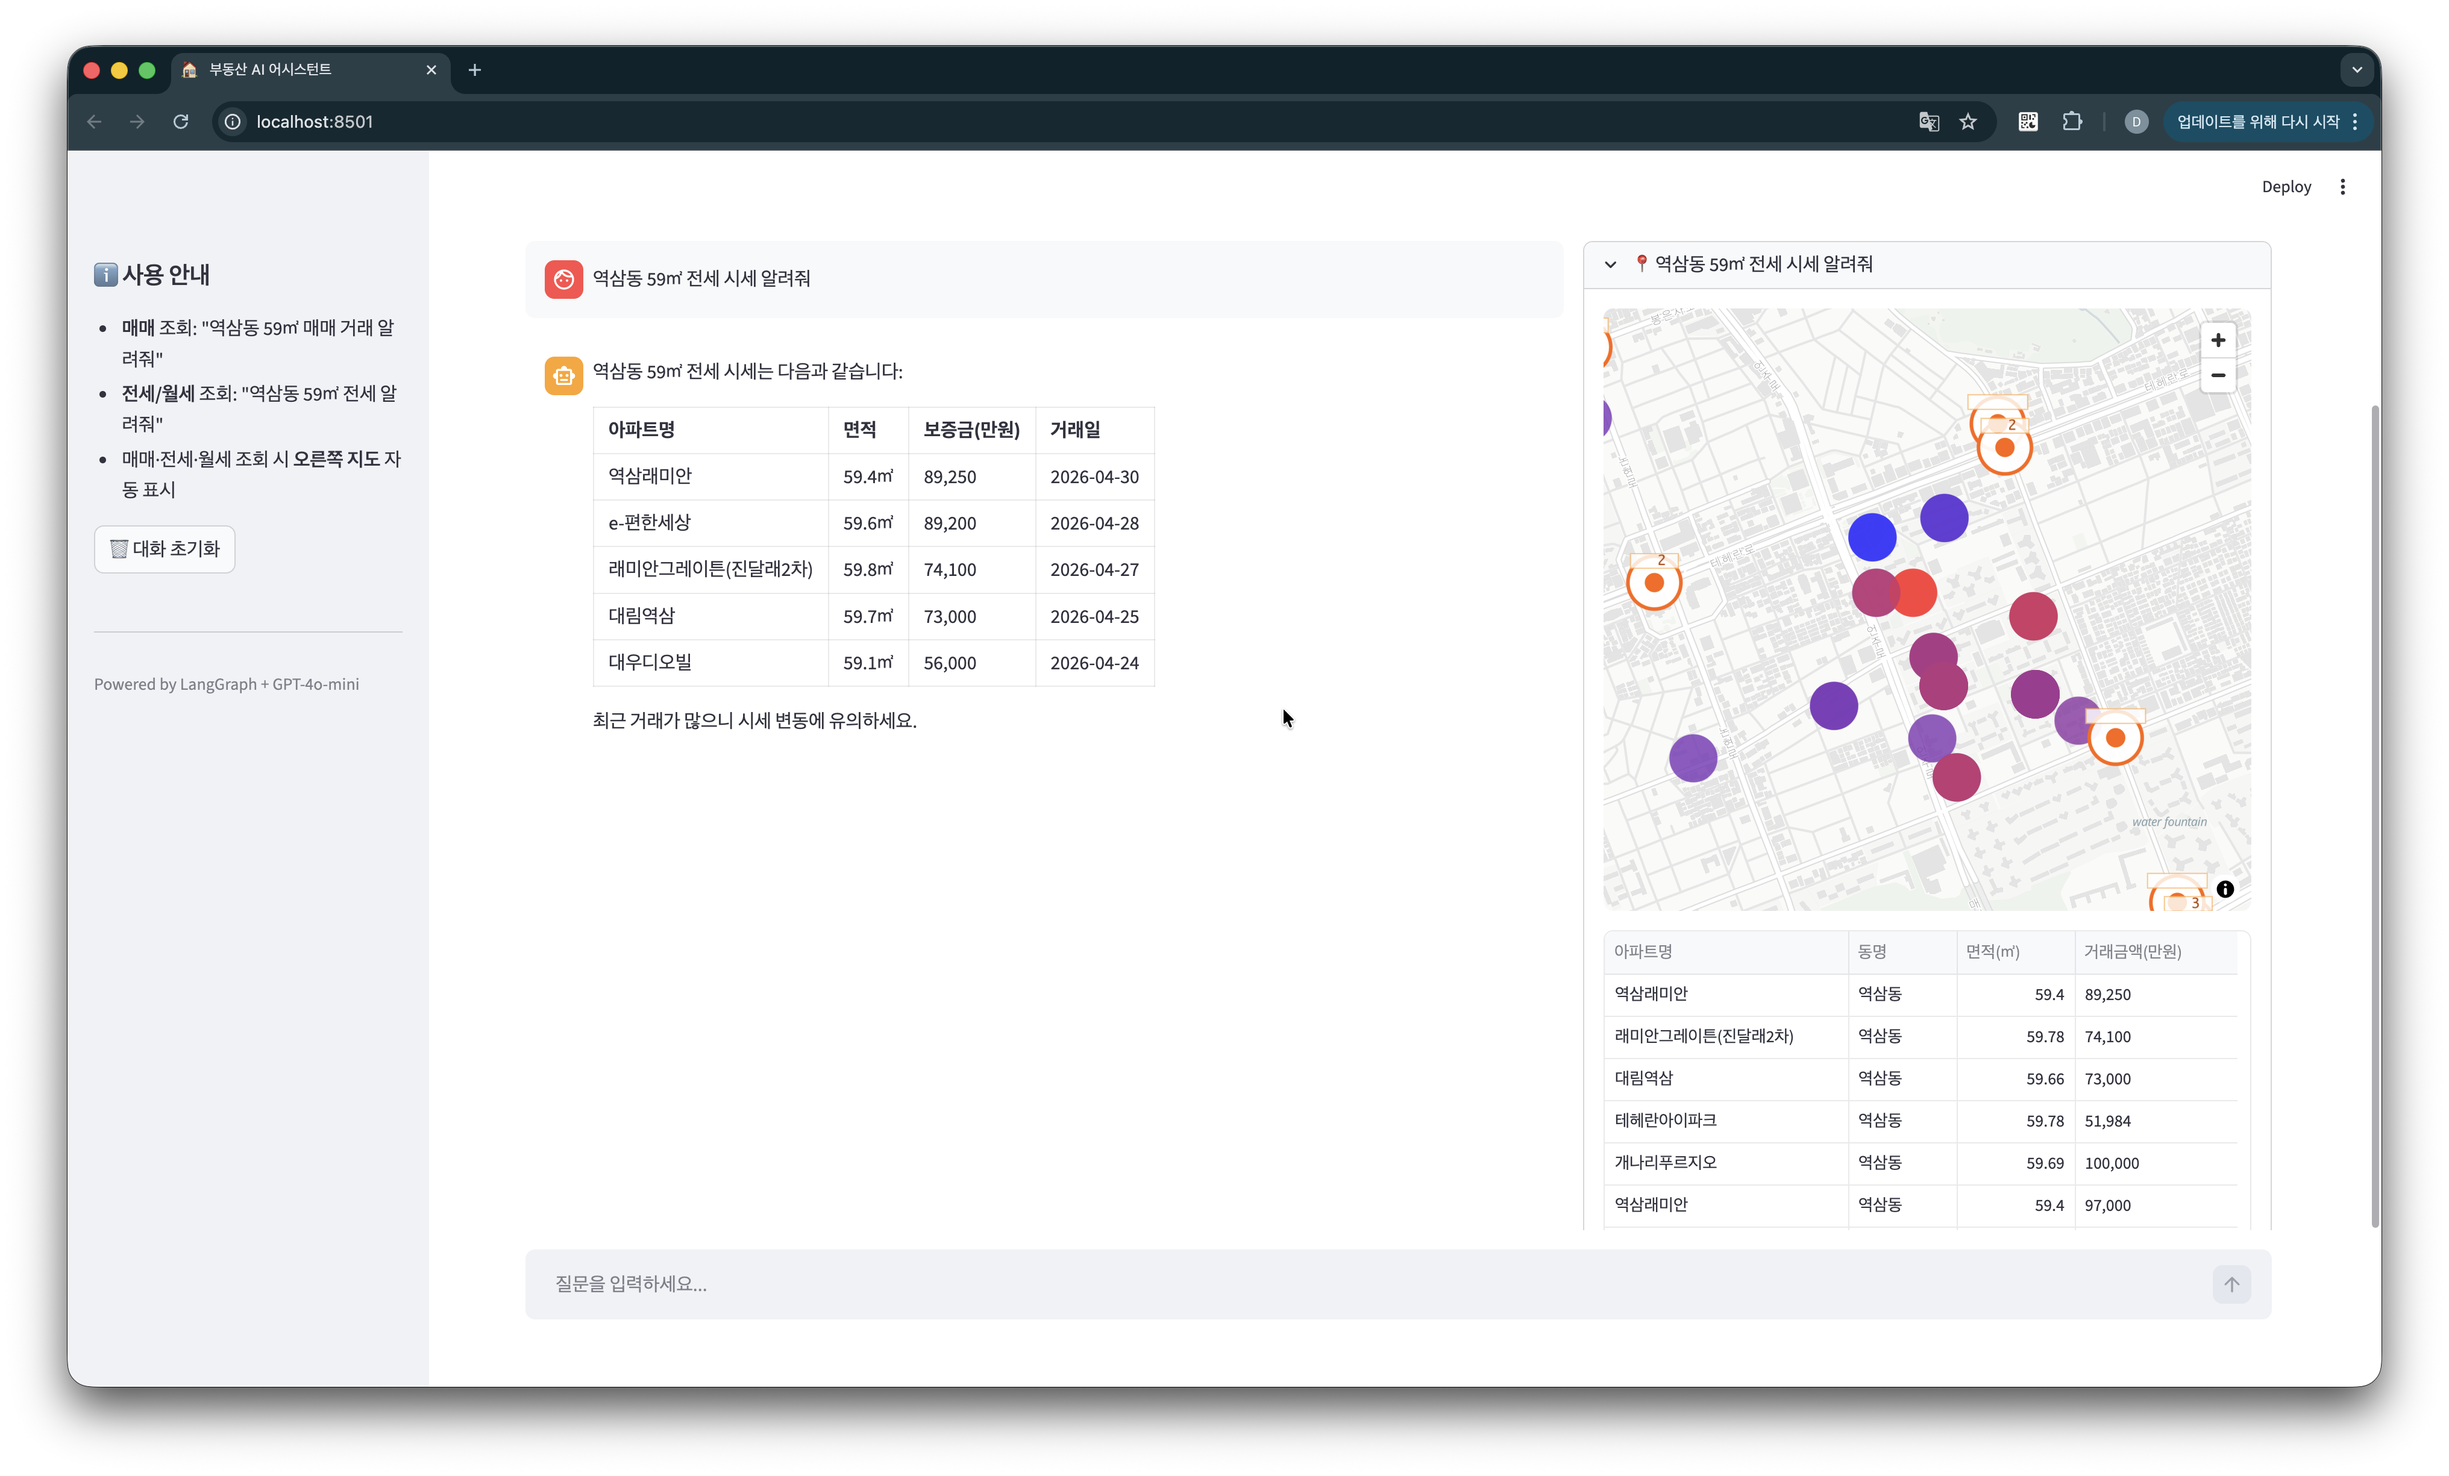
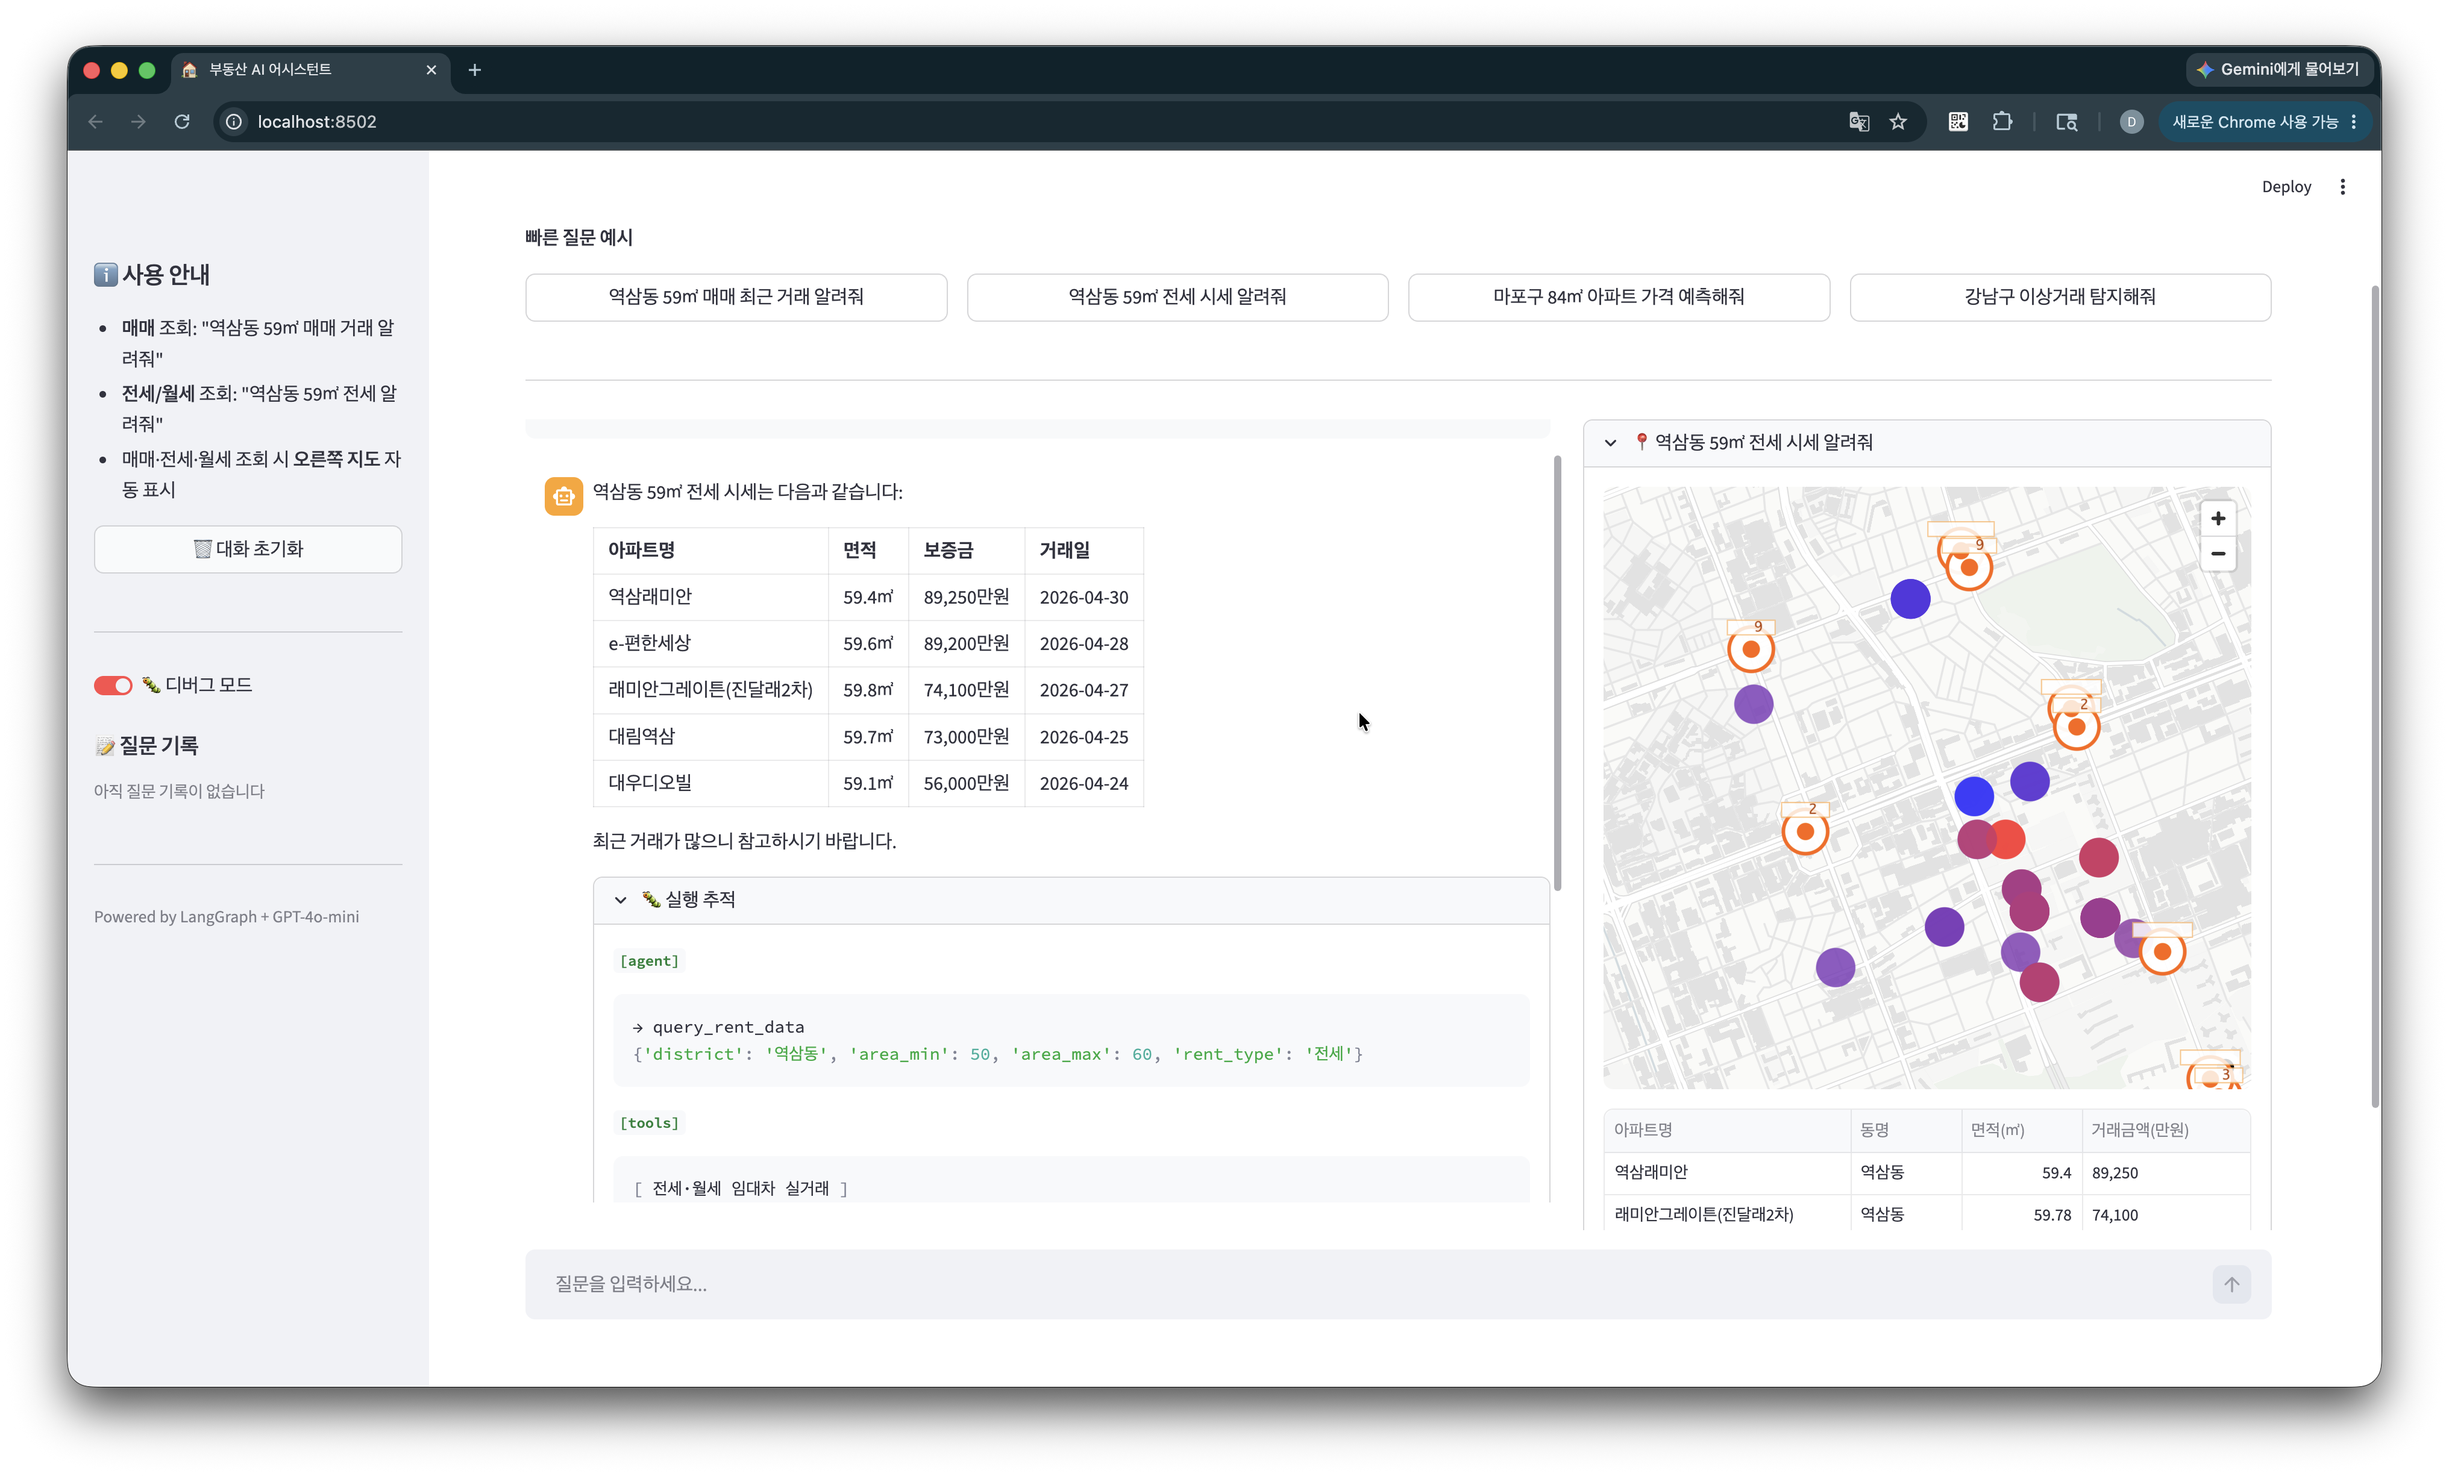
feat: 디버그 모드 및 채팅 스크롤 추가, 스크린샷 업데이트
- graph.stream() updates 모드로 [agent]→[tools]→[agent] 실행 추적 패널 구현
- 사이드바 디버그 모드 토글 추가
- 채팅 영역 독립 스크롤 컨테이너(height=650) 적용
- 스크린샷 4장 교체

diff --git a/app/streamlit_app.py b/app/streamlit_app.py
@@ -265,6 +265,7 @@ with st.sidebar:
         st.session_state.thread_id = str(uuid.uuid4())
         st.rerun()
     st.divider()
+    debug_mode = st.toggle("🐛 디버그 모드", value=False)
 
     # ── 질문 기록 ───────────────────────────────────────────────
     st.subheader("📝 질문 기록")
@@ -306,77 +307,98 @@ user_input = st.chat_input("질문을 입력하세요...") or pending
 chat_col, map_col = st.columns([3, 2])
 
 with chat_col:
-    for msg in st.session_state.messages:
-        if isinstance(msg, HumanMessage):
+    chat_container = st.container(height=650, border=False)
+
+    with chat_container:
+        for msg in st.session_state.messages:
+            if isinstance(msg, HumanMessage):
+                with st.chat_message("user"):
+                    st.markdown(msg.content)
+            elif isinstance(msg, AIMessage) and msg.content:
+                with st.chat_message("assistant"):
+                    st.markdown(msg.content)
+
+        if user_input:
+            st.session_state.messages.append(HumanMessage(content=user_input))
+            input_len = len(st.session_state.messages)
+            config = {"configurable": {"thread_id": st.session_state.thread_id}}
+
             with st.chat_message("user"):
-                st.markdown(msg.content)
-        elif isinstance(msg, AIMessage) and msg.content:
+                st.markdown(user_input)
+
             with st.chat_message("assistant"):
-                st.markdown(msg.content)
+                status_slot = st.empty()
+                status_slot.info("🔍 분석 중...")
+                text_slot   = st.empty()
+                full_text   = ""
+                debug_steps = []
 
-    if user_input:
-        st.session_state.messages.append(HumanMessage(content=user_input))
-        input_len = len(st.session_state.messages)
-        config = {"configurable": {"thread_id": st.session_state.thread_id}}
+                _stream_modes = ["messages", "values", "updates"] if debug_mode else ["messages", "values"]
 
-        with st.chat_message("user"):
-            st.markdown(user_input)
+                try:
+                    for event in graph.stream(
+                        {"messages": [HumanMessage(content=user_input)]},
+                        stream_mode=_stream_modes,
+                        config=config,
+                    ):
+                        mode, data = event
 
-        with st.chat_message("assistant"):
-            status_slot = st.empty()
-            status_slot.info("🔍 분석 중...")
-            text_slot   = st.empty()
-            full_text   = ""
-            final_state = None
+                        if mode == "values":
+                            final_state = data
 
-            try:
-                for event in graph.stream(
-                    {"messages": [HumanMessage(content=user_input)]},
-                    stream_mode=["messages", "values"],
-                    config=config,
-                ):
-                    mode, data = event
+                        elif mode == "updates" and debug_mode:
+                            debug_steps.append(data)
 
-                    if mode == "values":
-                        final_state = data
+                        elif mode == "messages":
+                            chunk, meta = data
+                            node = meta.get("langgraph_node", "")
 
-                    elif mode == "messages":
-                        chunk, meta = data
-                        node = meta.get("langgraph_node", "")
+                            if node == "agent" and isinstance(chunk, AIMessageChunk):
+                                valid_tools = [
+                                    tc["name"] for tc in getattr(chunk, "tool_calls", [])
+                                    if tc.get("name")
+                                ]
+                                if valid_tools:
+                                    labels = [TOOL_LABELS.get(n, f"🔄 {n}") for n in valid_tools]
+                                    status_slot.info(" · ".join(labels))
+                                elif chunk.content:
+                                    status_slot.empty()
+                                    full_text += chunk.content
+                                    text_slot.markdown(full_text + "▌")
 
-                        if node == "agent" and isinstance(chunk, AIMessageChunk):
-                            valid_tools = [
-                                tc["name"] for tc in getattr(chunk, "tool_calls", [])
-                                if tc.get("name")
-                            ]
-                            if valid_tools:
-                                labels = [TOOL_LABELS.get(n, f"🔄 {n}") for n in valid_tools]
-                                status_slot.info(" · ".join(labels))
-                            elif chunk.content:
-                                status_slot.empty()
-                                full_text += chunk.content
-                                text_slot.markdown(full_text + "▌")
+                except Exception as e:
+                    status_slot.empty()
+                    text_slot.error(f"오류가 발생했습니다: {e}")
+                    st.stop()
 
-            except Exception as e:
                 status_slot.empty()
-                text_slot.error(f"오류가 발생했습니다: {e}")
-                st.stop()
+                text_slot.markdown(full_text)
 
-            status_slot.empty()
-            text_slot.markdown(full_text)
+                if debug_mode and debug_steps:
+                    with st.expander("🐛 실행 추적", expanded=True):
+                        for step in debug_steps:
+                            for node, changes in step.items():
+                                st.markdown(f"**`[{node}]`**")
+                                for m in changes.get("messages", []):
+                                    if hasattr(m, "tool_calls") and m.tool_calls:
+                                        for tc in m.tool_calls:
+                                            st.code(f"→ {tc['name']}\n{tc['args']}", language="python")
+                                    elif hasattr(m, "content") and m.content:
+                                        preview = str(m.content)
+                                        st.code(preview[:400] + ("..." if len(preview) > 400 else ""))
 
-        if final_state:
-            all_msgs = final_state["messages"]
-            new_msgs = all_msgs[input_len:]  # 현재 턴에서 새로 생긴 메시지만
-            st.session_state.messages.extend(new_msgs)
+            if final_state:
+                all_msgs = final_state["messages"]
+                new_msgs = all_msgs[input_len:]  # 현재 턴에서 새로 생긴 메시지만
+                st.session_state.messages.extend(new_msgs)
 
-            # 현재 턴 메시지만 전달 — 이전 턴 역삼동 등 다른 지역 tool call 재사용 방지
-            pts = _extract_map_points(new_msgs)
-            if pts:
-                st.session_state.map_entries.append({
-                    "question": user_input,
-                    "points":   pts,
-                })
+                # 현재 턴 메시지만 전달 — 이전 턴 역삼동 등 다른 지역 tool call 재사용 방지
+                pts = _extract_map_points(new_msgs)
+                if pts:
+                    st.session_state.map_entries.append({
+                        "question": user_input,
+                        "points":   pts,
+                    })
 
 with map_col:
     if not st.session_state.map_entries:
